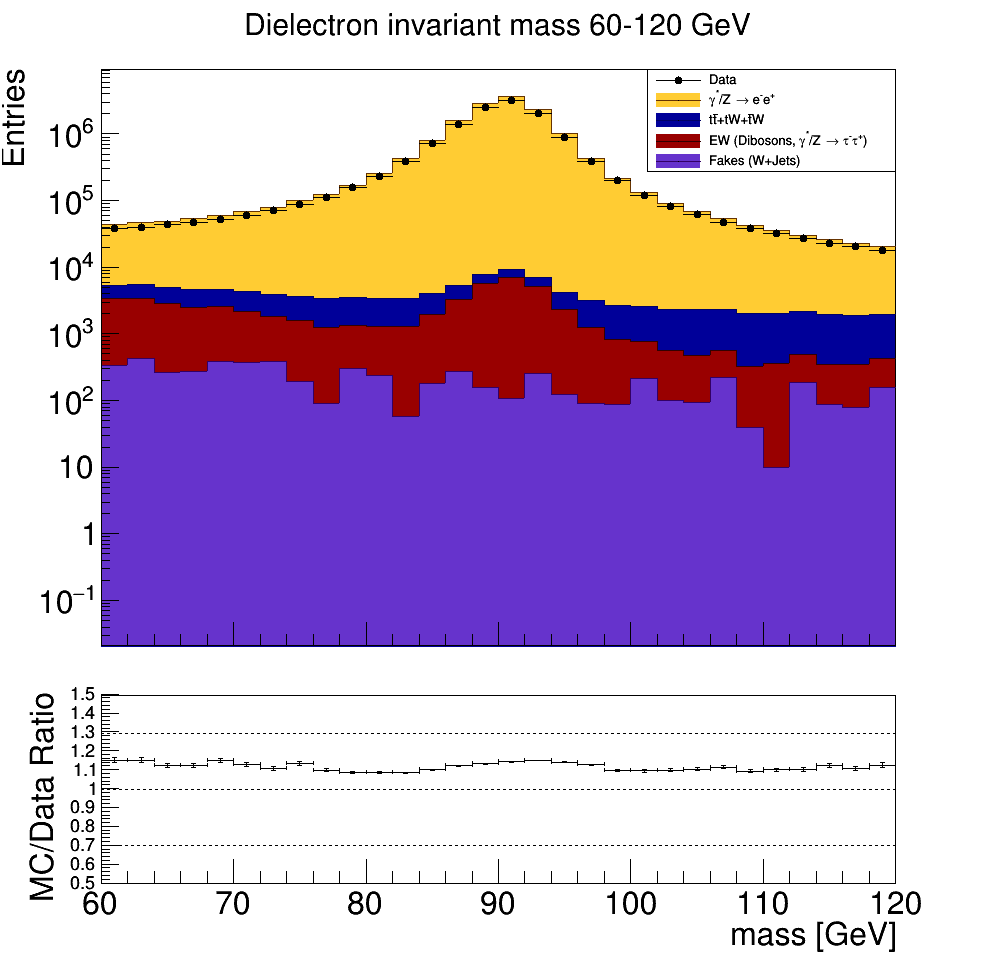
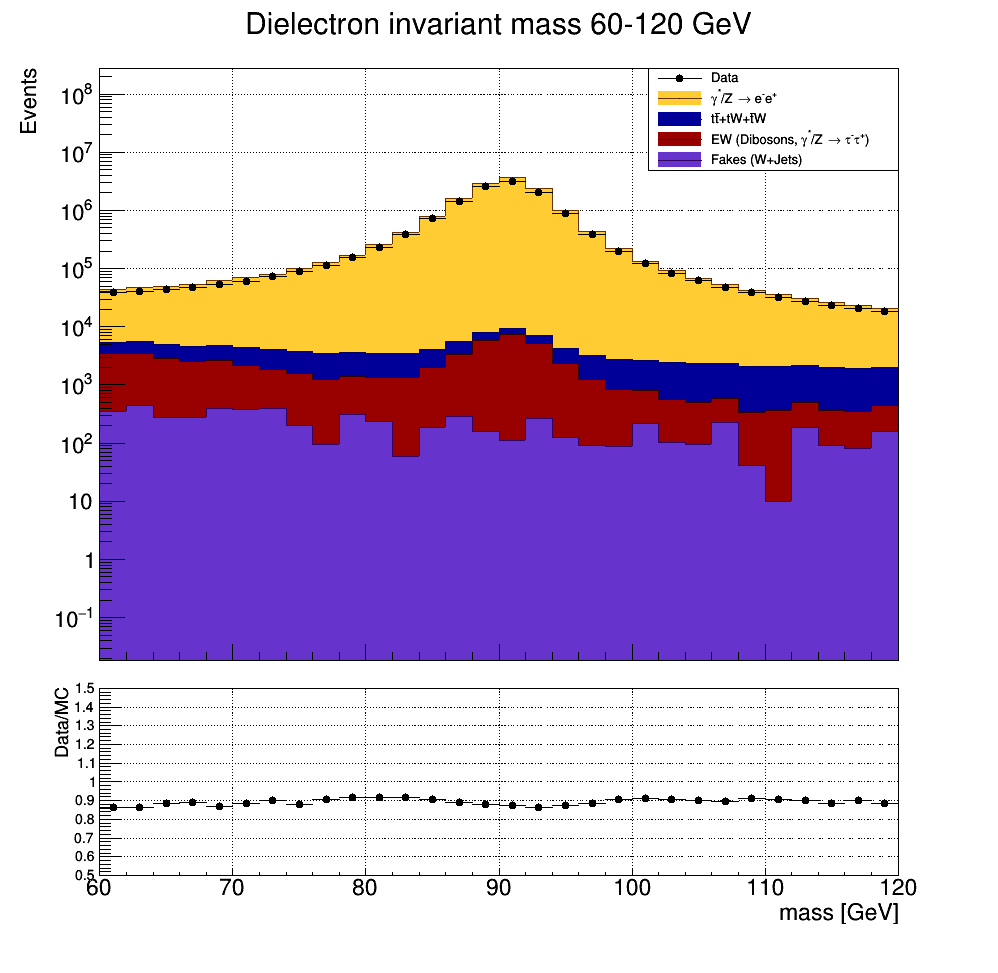
fixed ratios for data vs MC plots

diff --git a/drawDataVsMC.C b/drawDataVsMC.C
@@ -10,6 +10,8 @@
 const int nHistoTypes = 11; 
 const int nHistos = 5;
 const float axisLow = 0.1;
+const float axisHigh = 100000000;
+const float padmargins = 0.03;
 const TString hStackName = "hStack";
 const TString dataFileName = "./plots/dataVsMC.root";
 const TString histName[nHistos] = {
@@ -86,6 +88,12 @@ void drawDataVsMC()
     cout << endl;
   }
 
+  ////////////////////////////////////
+  //                                //
+  //-----Filling histograms and-----//
+  //-----Setting draw options-------//
+  //                                //
+  ////////////////////////////////////
 
   TH1F*histos[nHistoTypes][nHistos];  
   TH1F*hDataMCRatio[nHistoTypes];
@@ -100,6 +108,14 @@ void drawDataVsMC()
     for(int j=0;j<nHistos;j++){//histogram within type (backgrounds, signal, etc)  
       if(i==VERTICES_WEIGHTED&&j==DATA) histos[i][j]= (TH1F*)file->Get(histName[j]+histTypeName[i-1]);
       else histos[i][j]=(TH1F*)file->Get(histName[j]+histTypeName[i]); 
+
+      //Setting negative bin content to ZERO!!!!!!!!!!!!!!!!!!!!!! 
+      int maxBin = histos[i][j]->GetMaximumBin();
+      double x = histos[i][j]->GetXaxis()->GetBinCenter(maxBin);
+      for(int k=0;k<x;k++){     
+	if(histos[i][j]->GetBinContent(k) < 0) histos[i][j]->SetBinContent(k,0);
+      }
+      
       if(j==DATA) {
 	histos[i][j]->SetLineColor(kBlack);
 	histos[i][j]->SetMarkerColor(kBlack);
@@ -111,26 +127,24 @@ void drawDataVsMC()
 	histos[i][j]->SetLineColor(histLineColors[j]);
       }      
       histos[i][j]->GetXaxis()->SetTitle(xAxisLabels[i]);
-      hMCSum[i] = (TH1F*)histos[i][0]->Clone(hSumName);
-      if(j!=DATA&&j!=0)
+      if(j==0) hMCSum[i] = (TH1F*)histos[i][0]->Clone(hSumName);
+      else if(j!=DATA&&j!=0)
 	hMCSum[i]->Add(histos[i][j]);
     }
     hDataMCRatio[i] = (TH1F*)histos[i][DATA]->Clone(hRatioName);
     hDataMCRatio[i]->Divide(hMCSum[i]);
+    hDataMCRatio[i]->SetLineColor(kBlack);
+    hDataMCRatio[i]->SetMarkerColor(kBlack);
+    hDataMCRatio[i]->SetMarkerStyle(20);
+    hDataMCRatio[i]->GetYaxis()->SetRangeUser(0.5,1.5);    
   }
 
-  //////////////////////////////////////////////////////////////////////////////////////////////////
-  //Setting negative bin content found to ZERO!!!!!!!!!!!!!!!!!!!!!!
-  for(int j=0;j<nHistoTypes;j++){    
-    for(int k=0;k<3000;k++){      
-      if(histos[INV_MASS][j]->GetBinContent(k) < 0) histos[INV_MASS][j]->SetBinContent(k,0);
-    }
-  }
+  //////////////////////////////////////////
+  //                                      //
+  //-----Place histograms into stacks-----//
+  //                                      //
+  //////////////////////////////////////////
 
-  //////////////////////////////////////////////////////////////////////////////////////////////////
-	
-  //Place histograms into stacks
-    //Place histograms into stacks
   THStack*hStack[nHistoTypes];
   for(int i=0;i<nHistoTypes;i++){  
     hStack[i] = new THStack(hStackName+histTypeName[i],"");
@@ -139,6 +153,7 @@ void drawDataVsMC()
       hStack[i]->Add(histos[i][j]);
       hStack[i]->SetTitle(plotTitle[i]);
       hStack[i]->SetMinimum(axisLow);
+      hStack[i]->SetMaximum(axisHigh);
     }
   }
 
@@ -148,37 +163,65 @@ void drawDataVsMC()
   legend->AddEntry(histos[0][EE],"#gamma^{*}/Z #rightarrow e^{-}e^{+}");
   legend->AddEntry(histos[0][TOPS],"t#bar{t}+tW+#bar{t}W");
   legend->AddEntry(histos[0][EW],"EW (Dibosons, #gamma^{*}/Z #rightarrow #tau^{-}#tau^{+})");
-  legend->AddEntry(histos[0][FAKES],"Fakes (W+Jets)");
+  legend->AddEntry(histos[0][FAKES],"Fakes (W+Jets)");  
 
   TCanvas*canvas[nHistoTypes];
+  TPad*pad1[nHistoTypes];
+  TPad*pad2[nHistoTypes];
+  TLine*lineUp[nHistoTypes];
+  TLine*lineDown[nHistoTypes];
+  TVirtualPad*p1[nHistoTypes];
+  TVirtualPad*p2[nHistoTypes];
   for(int i=0;i<nHistoTypes;i++){ 
     TString canvasName = "canvas";
     canvasName+=i;
-    canvas[i] = new TCanvas(canvasName,"",10,10,1000,1000);
-    
-    if(i==INV_MASS){
-      canvas[i]->SetLogx();
-      canvas[i]->SetLogy();
-    }
-    else canvas[i]->SetLogy();
-    canvas[i]->cd();    
-    
+    canvas[i] = new TCanvas(canvasName,"",10,10,1000,1000);    
+    //lineUp[i] = new TLine(0,1.3,,1.3);
+    //lineDown[i] = new TLine(0,0.7,,0.7);
+    pad1[i] = new TPad("","", 0,0.3,1,1.0);
+    pad1[i]->SetBottomMargin(padmargins); 
+    pad1[i]->SetGrid();
+    pad1[i]->SetLogy();
+    pad1[i]->Draw(); 
+    pad1[i]->cd(); 
+    if(i==INV_MASS) pad1[i]->SetLogx();
     hStack[i]->Draw("hist");
     hStack[i]->GetXaxis()->SetTitle(xAxisLabels[i]);
     hStack[i]->GetXaxis()->SetNoExponent();
     hStack[i]->GetXaxis()->SetMoreLogLabels();
     hStack[i]->SetMinimum(axisLow);
+    hStack[i]->GetXaxis()->SetLabelSize(0);
+    hStack[i]->GetXaxis()->SetTitleSize(0);
+    hStack[i]->GetYaxis()->SetTitle("Events");
     canvas[i]->Update();
     if(i==VERTICES_WEIGHTED) histos[i-1][DATA]->Draw("same,PE");
     else histos[i][DATA]->Draw("same,PE");
     legend->Draw("same");
-    /*
+
+    canvas[i]->cd();
+    pad2[i] = new TPad("","",0,0.05,1,0.3);
+    p2[i] = pad2[i];
+    if(i==INV_MASS) p2[i]->SetLogx();
+    pad2[i]->SetTopMargin(padmargins);
+    pad2[i]->SetBottomMargin(0.2);
+    pad2[i]->SetGrid();
+    pad2[i]->Draw();
+    pad2[i]->cd();
+    hDataMCRatio[i]->GetYaxis()->SetLabelSize(0.06);
+    hDataMCRatio[i]->GetYaxis()->SetTitleSize(0.08);
+    hDataMCRatio[i]->GetYaxis()->SetTitleOffset(0.3);
+    hDataMCRatio[i]->GetYaxis()->SetTitle("Data/MC");
+    hDataMCRatio[i]->GetXaxis()->SetLabelSize(0.1);
+    hDataMCRatio[i]->GetXaxis()->SetTitleSize(0.1);
+    hDataMCRatio[i]->GetXaxis()->SetNoExponent();
+    hDataMCRatio[i]->GetXaxis()->SetMoreLogLabels();
+    hDataMCRatio[i]->Draw("PE");
+     
     canvas[i]->Update();  
     TString saveName = "./plots/dataVsMC/dataVsMC_";
     saveName+=histTypeName[i];
     saveName+=".png";
-    canvas[i]->SaveAs(saveName);  
-    */  
+    canvas[i]->SaveAs(saveName);     
   }
 
 }//end invMassDraw
